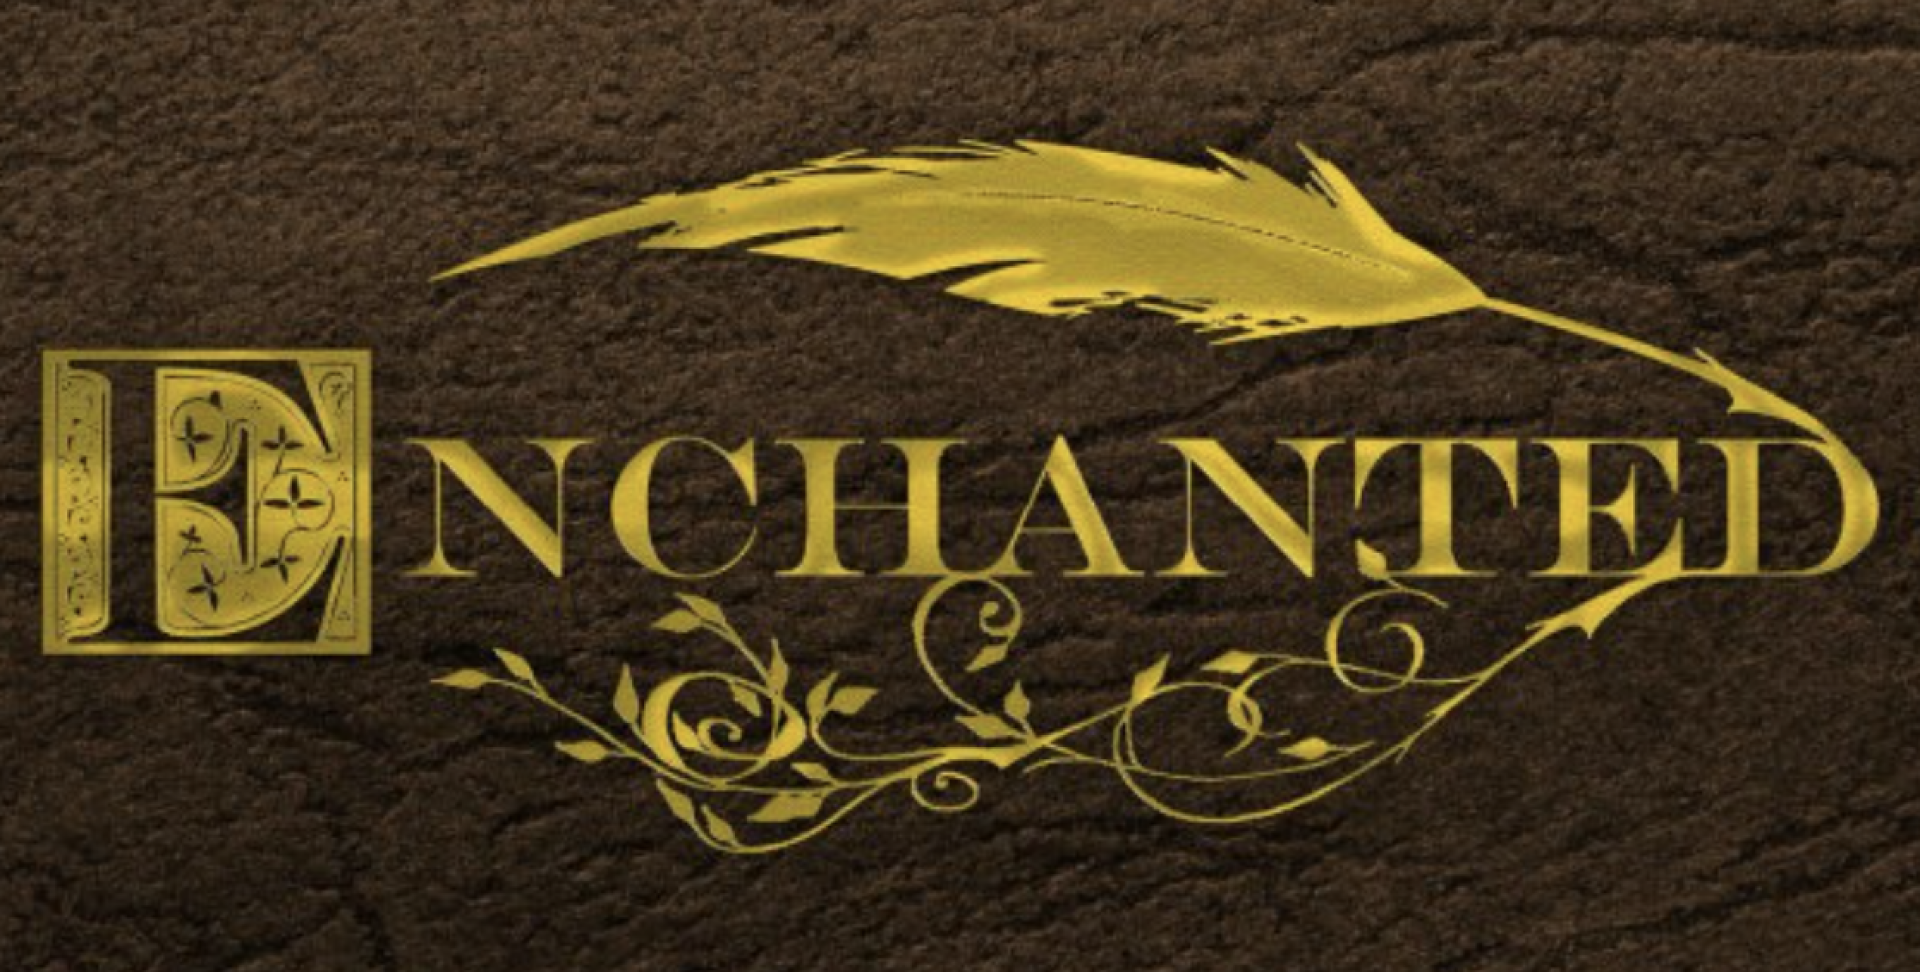
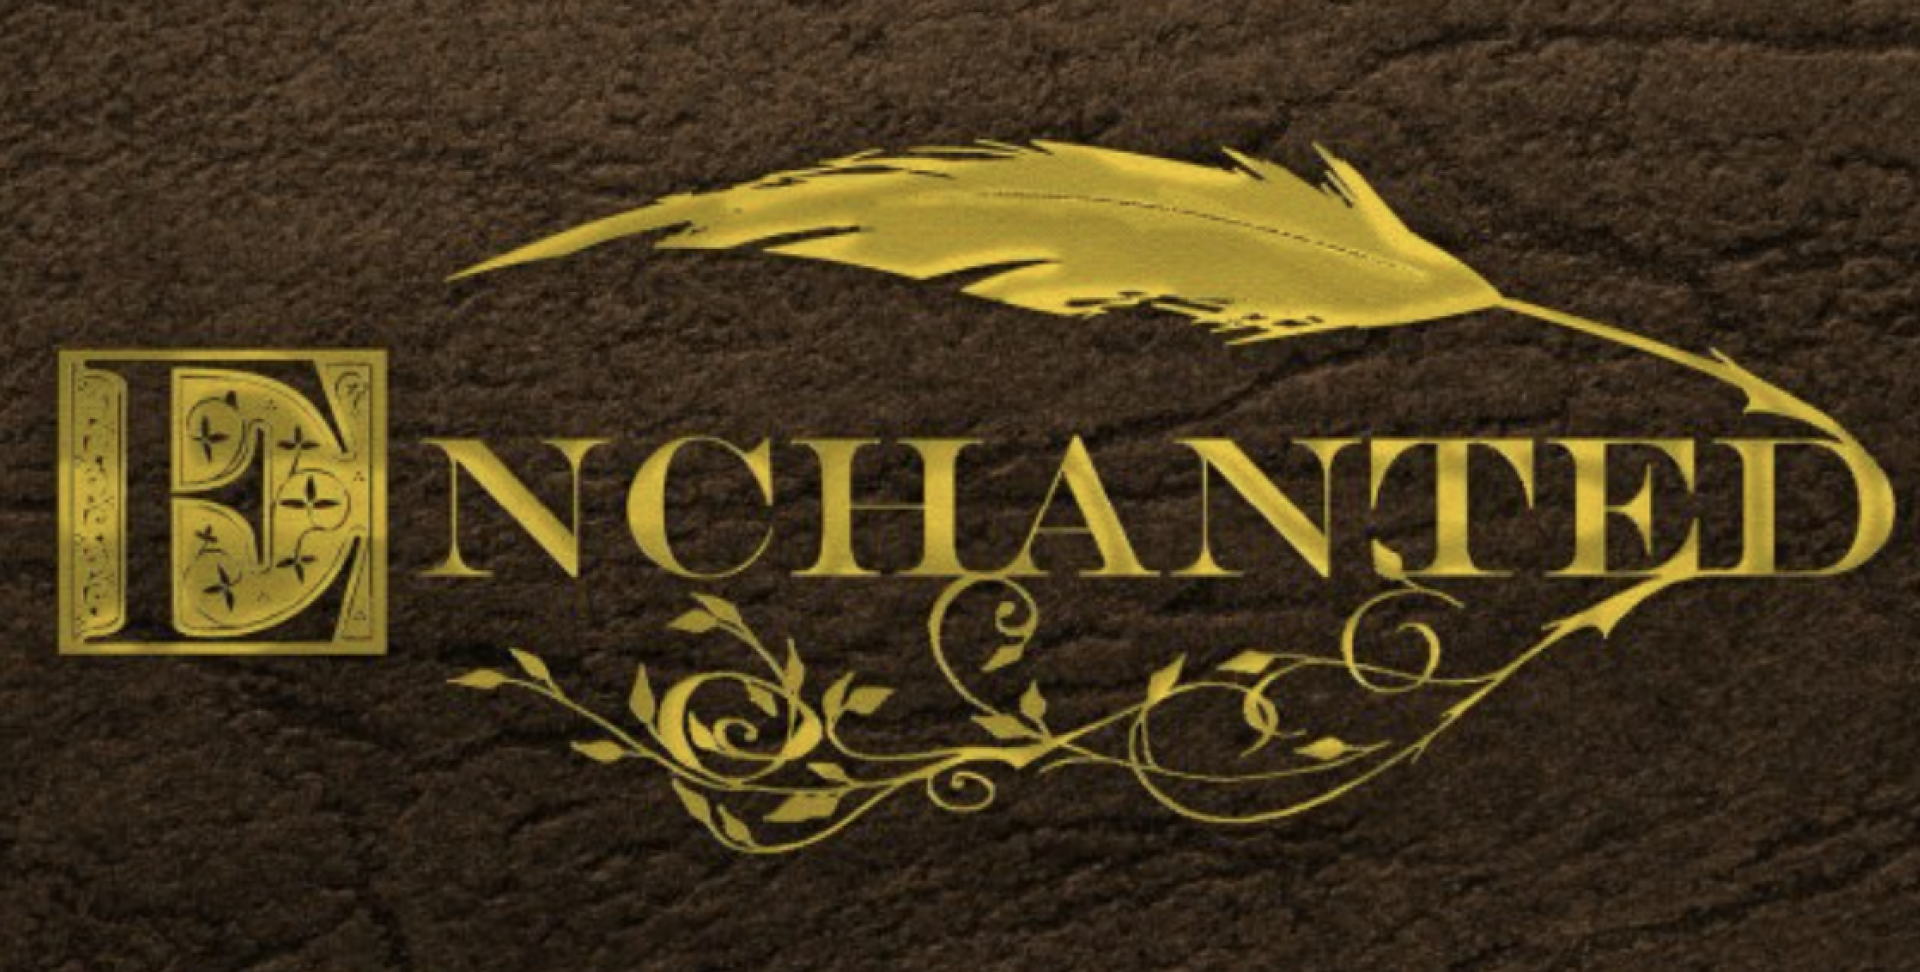
test

diff --git a/src/pages/Home.js b/src/pages/Home.js
@@ -24,7 +24,7 @@ import tuesday from "../images/Tuesday-Header.png";
 import pandoras from "../images/PandorasBox-Header.png";
 import ttd from "../images/ThroughTheDecades-Header.png"; 
 import fcmas from "../images/MusicAwards-Header.png";
-import enchanted from "../images/MusicAwards-Header.png";
+import enchanted from "../images/Enchanted-Header.png";
 import covertocover from "../images/CoverToCover-Header.png";
 import directorscut from "../images/DirectorsCut-Header.png";
 import ffc from "../images/FashionForChange-Header.png";

diff --git a/src/pages/Shows/Enchanted.js b/src/pages/Shows/Enchanted.js
@@ -1,6 +1,6 @@
 import Nav from '../../components/Navbar.js'
 import Footer from "../../components/Footer";
-import header from "../../images/CoverToCover-Header.png";
+import header from "../../images/Enchanted-Header.png";
 import { useState } from "react";
 
 const ArcanaPage = () => {
